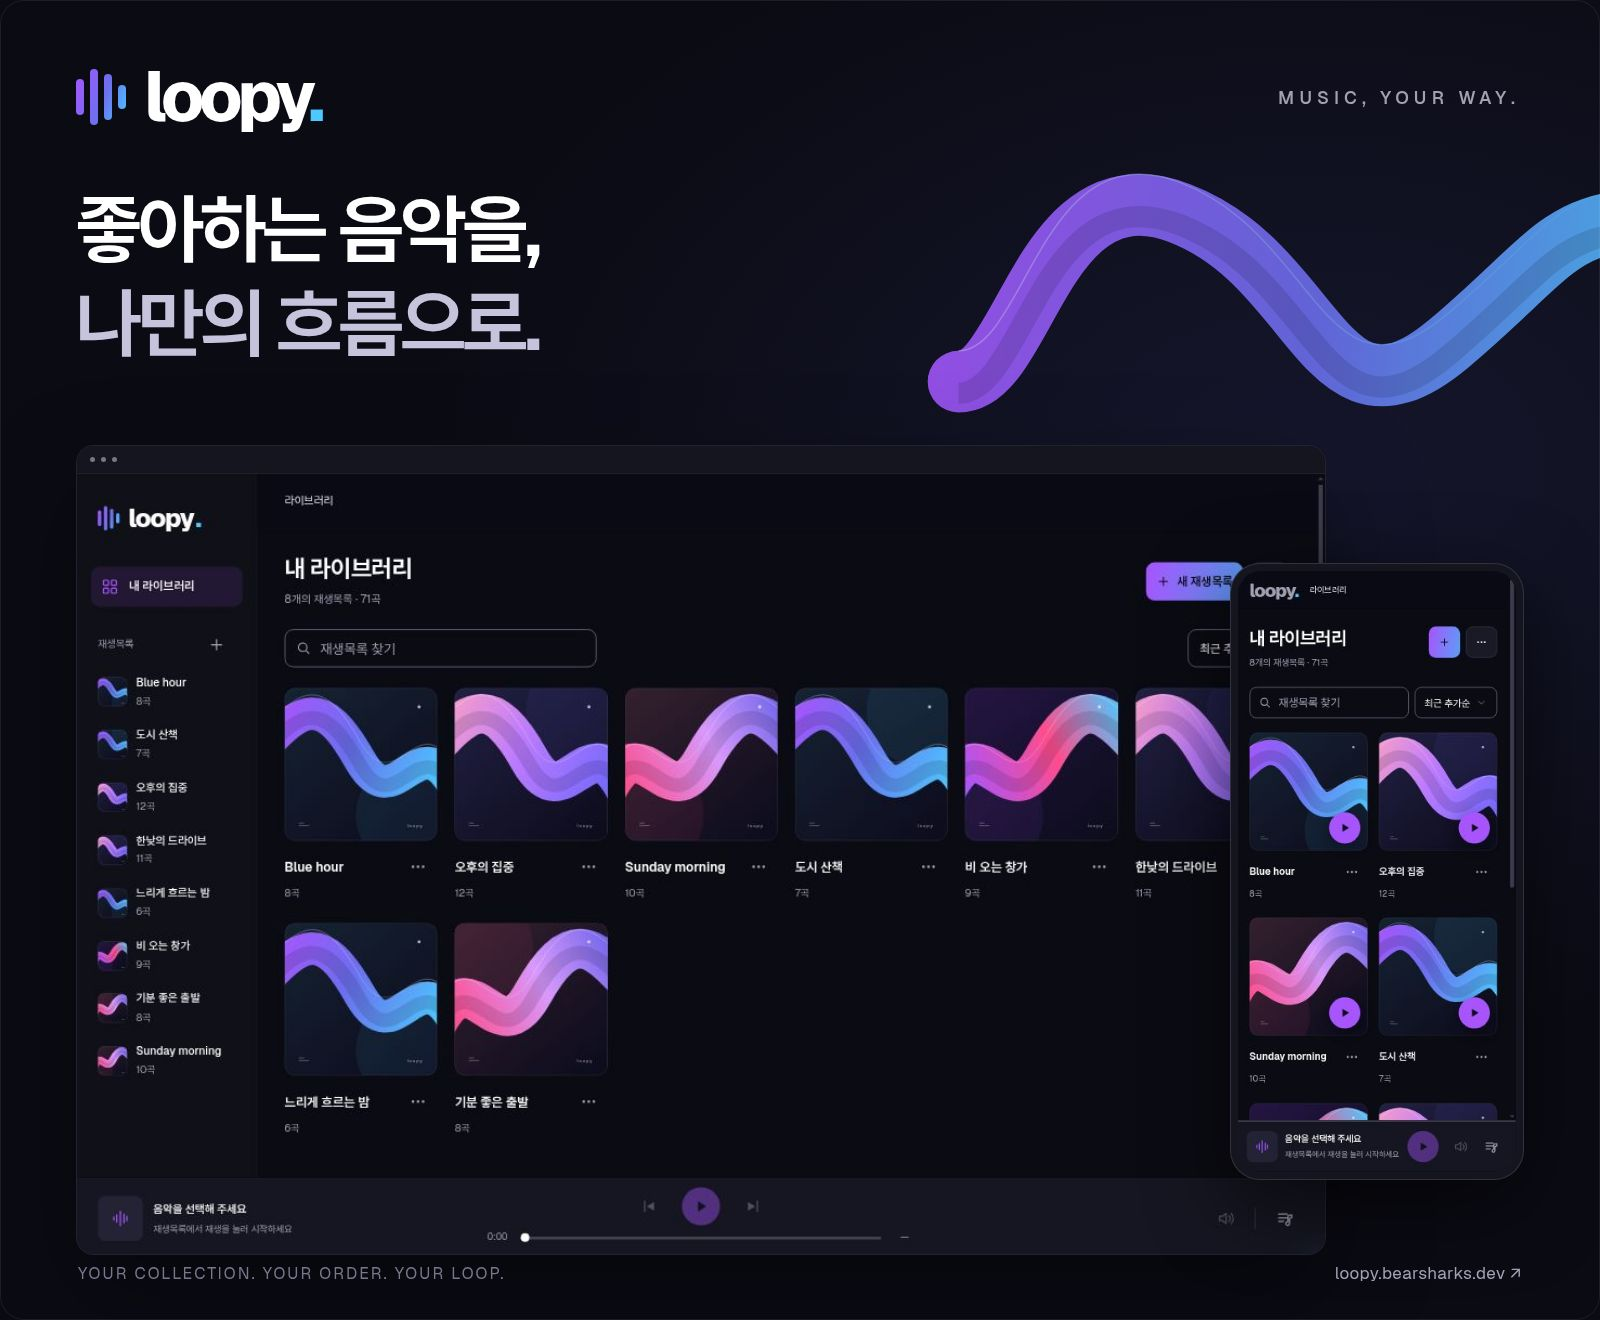
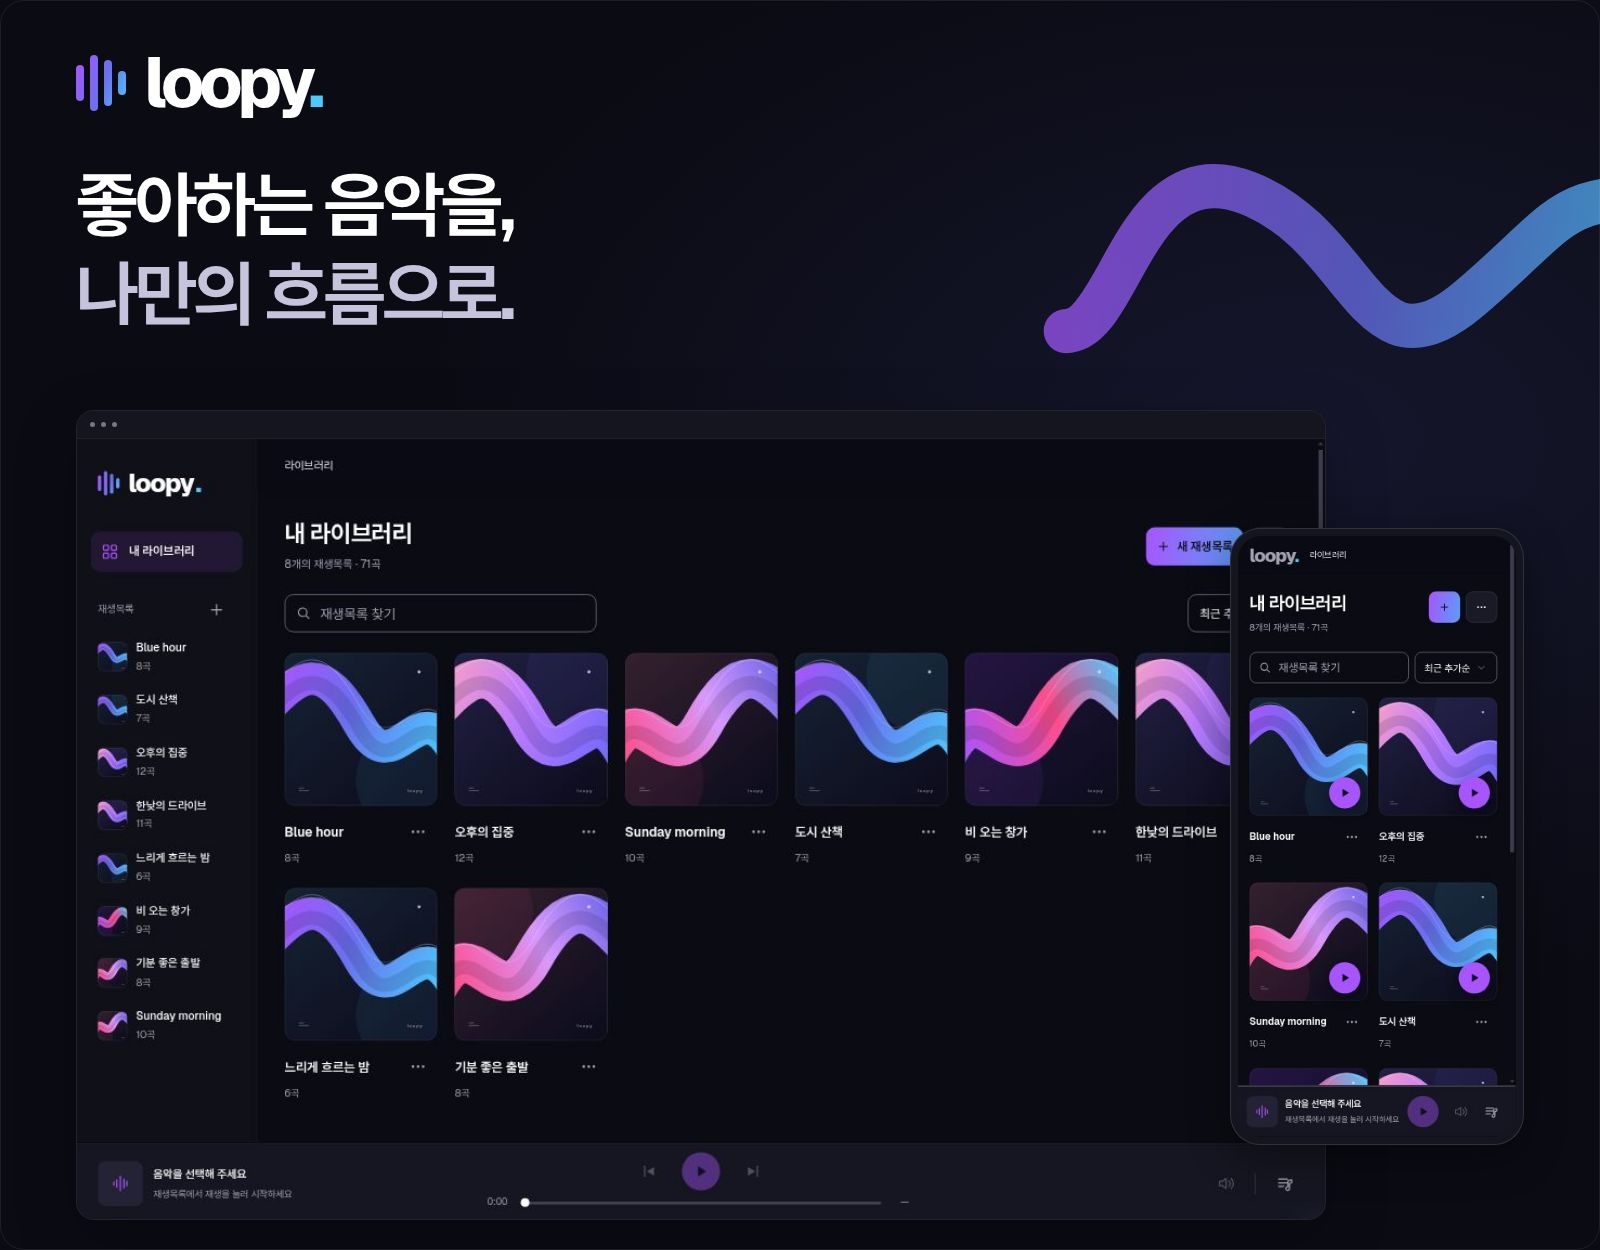
docs: simplify Loopy copy and reduce visual noise

diff --git a/docs/readme/hero.html b/docs/readme/hero.html
@@ -2,13 +2,13 @@
 <html lang="ko"><meta charset="utf-8"><title>loopy — 좋아하는 음악을, 나만의 흐름으로.</title>
 <link rel="stylesheet" href="../../src/shared/ui/fonts.css">
 <style>
-*{box-sizing:border-box;cursor:none}html,body{margin:0;width:1600px;height:1320px;background:#0b0b14;color:#fff;font-family:'Geist Sans','Pretendard Variable',sans-serif}main{width:1600px;height:1320px;overflow:hidden;position:relative;background:radial-gradient(ellipse at 82% 35%,#15162c 0,transparent 48%),#0b0b14}main:after{content:'';position:absolute;inset:0;border:1px solid #ffffff14;border-radius:24px;pointer-events:none}.brand{display:flex;align-items:center;gap:18px;position:absolute;left:76px;top:62px}.word{font-size:70px;font-weight:760;letter-spacing:-5px;line-height:1}.dot{color:#4cc9ff}.bars{display:flex;align-items:center;gap:6px;width:50px;height:56px}.bars i{width:8px;height:36px;border-radius:20px;background:linear-gradient(110deg,#a855ff 0%,#6c70ef 55%,#4cc9ff 100%);background-size:50px 56px;background-position:0 -10px}.bars i:nth-child(2){height:56px;background-position:-14px 0}.bars i:nth-child(3){height:46px;background-position:-28px -5px}.bars i:nth-child(4){height:24px;background-position:-42px -16px}.eyebrow{position:absolute;top:86px;right:80px;font-size:18px;letter-spacing:5px;font-weight:550;color:#a1a1b3}.headline{position:absolute;top:182px;left:76px;margin:0;font-weight:660;font-size:76px;letter-spacing:-3.6px;line-height:1.24;z-index:2}.headline span{color:#c5c4dc}.wave{position:absolute;right:-90px;top:110px;width:770px;height:370px;opacity:.88}.screen{position:absolute;border:1px solid #5c5c734d;overflow:hidden;box-shadow:0 40px 100px #0006;background:#0b0b14}.desktop{left:76px;top:445px;width:1250px;border-radius:18px}.screen img{width:100%;display:block}.bar{height:28px;background:#15151f;border-bottom:1px solid #ffffff0c;display:flex;align-items:center;gap:6px;padding:0 13px}.bar i{display:block;width:5px;height:5px;background:#777687;border-radius:50%}.phone{left:1230px;top:563px;width:294px;padding:7px;border-radius:30px;border-color:#6b6b8055;background:#15151f;box-shadow:0 24px 80px #0009}.phone img{border-radius:23px}.caption{position:absolute;left:78px;bottom:36px;font-size:16px;letter-spacing:2px;color:#77788e}.rightnote{position:absolute;right:79px;bottom:36px;color:#a1a1b3;font-size:17px;letter-spacing:.4px}
+*{box-sizing:border-box;cursor:none}html,body{margin:0;width:1600px;height:1250px;background:#0b0b14;color:#fff;font-family:'Geist Sans','Pretendard Variable',sans-serif}main{width:1600px;height:1250px;overflow:hidden;position:relative;background:radial-gradient(ellipse at 82% 35%,#15162c 0,transparent 48%),#0b0b14}main:after{content:'';position:absolute;inset:0;border:1px solid #ffffff14;border-radius:24px;pointer-events:none}.brand{display:flex;align-items:center;gap:18px;position:absolute;left:76px;top:48px}.word{font-size:70px;font-weight:760;letter-spacing:-5px;line-height:1}.dot{color:#4cc9ff}.bars{display:flex;align-items:center;gap:6px;width:50px;height:56px}.bars i{width:8px;height:36px;border-radius:20px;background:linear-gradient(110deg,#a855ff 0%,#6c70ef 55%,#4cc9ff 100%);background-size:50px 56px;background-position:0 -10px}.bars i:nth-child(2){height:56px;background-position:-14px 0}.bars i:nth-child(3){height:46px;background-position:-28px -5px}.bars i:nth-child(4){height:24px;background-position:-42px -16px}.headline{position:absolute;top:160px;left:76px;margin:0;font-weight:660;font-size:72px;letter-spacing:-3.6px;line-height:1.24;z-index:2}.headline span{color:#c5c4dc}.wave{position:absolute;right:-90px;top:110px;width:680px;height:300px;opacity:.72}.screen{position:absolute;border:1px solid #5c5c734d;overflow:hidden;box-shadow:0 20px 60px #0004;background:#0b0b14}.desktop{left:76px;top:410px;width:1250px;border-radius:18px}.screen img{width:100%;display:block}.bar{height:28px;background:#15151f;border-bottom:1px solid #ffffff0c;display:flex;align-items:center;gap:6px;padding:0 13px}.bar i{display:block;width:5px;height:5px;background:#777687;border-radius:50%}.phone{left:1230px;top:528px;width:294px;padding:7px;border-radius:30px;border-color:#6b6b8055;background:#15151f;box-shadow:0 12px 40px #0006}.phone img{border-radius:23px}
 </style><main aria-label="loopy 브랜드 소개와 실제 앱 예시 화면">
 <div class="brand"><span class="bars"><i></i><i></i><i></i><i></i></span><span class="word">loopy<span class="dot">.</span></span></div>
-<div class="eyebrow">MUSIC, YOUR WAY.</div>
+
 <h1 class="headline">좋아하는 음악을,<br><span>나만의 흐름으로.</span></h1>
-<svg class="wave" viewBox="0 0 800 380" fill="none" aria-hidden="true"><defs><linearGradient id="flow" x1="0" y1="150" x2="800" y2="250" gradientUnits="userSpaceOnUse"><stop stop-color="#a855ff"/><stop offset=".52" stop-color="#6c70ef"/><stop offset="1" stop-color="#4cc9ff"/></linearGradient><linearGradient id="edge" x2="800" gradientUnits="userSpaceOnUse"><stop stop-color="#e4c9ff" stop-opacity=".5"/><stop offset="1" stop-color="#4cc9ff" stop-opacity=".2"/></linearGradient></defs><path d="M40 280C110 280 126 50 270 105S420 350 550 240 660 100 840 115" stroke="url(#flow)" stroke-width="64" stroke-linecap="round"/><path d="M40 248C110 248 126 18 270 73S420 318 550 208 660 68 840 83" stroke="url(#edge)" stroke-width="1.6"/><path d="M40 292C110 292 126 62 270 117S420 362 550 252 660 112 840 127" stroke="#050510" stroke-opacity=".13" stroke-width="22"/></svg>
+<svg class="wave" viewBox="0 0 800 380" fill="none" aria-hidden="true"><defs><linearGradient id="flow" x1="0" y1="150" x2="800" y2="250" gradientUnits="userSpaceOnUse"><stop stop-color="#a855ff"/><stop offset=".52" stop-color="#6c70ef"/><stop offset="1" stop-color="#4cc9ff"/></linearGradient></defs><path d="M40 280C110 280 126 50 270 105S420 350 550 240 660 100 840 115" stroke="url(#flow)" stroke-width="56" stroke-linecap="round"/></svg>
 <div class="screen desktop"><div class="bar"><i></i><i></i><i></i></div><img src="library-desktop.jpg" alt="현재 loopy 라이브러리의 실제 렌더. 예시 재생목록 8개."></div>
 <div class="screen phone"><img src="library-mobile.jpg" alt="동일한 라이브러리의 모바일 화면."></div>
-<div class="caption">YOUR COLLECTION. YOUR ORDER. YOUR LOOP.</div><div class="rightnote">loopy.bearsharks.dev ↗</div>
-</main><script>if(new URLSearchParams(location.search).has('export')){document.body.style.paddingTop='800px';document.body.style.height='2120px';document.documentElement.style.height='2120px';}</script></html>
+
+</main><script>if(new URLSearchParams(location.search).has('export')){document.body.style.paddingTop='800px';document.body.style.height='2050px';document.documentElement.style.height='2050px';}</script></html>

diff --git a/README.md b/README.md
@@ -1,84 +1,46 @@
 <p align="center">
   <a href="https://loopy.bearsharks.dev/">
-    <img src="docs/readme/hero.jpg" width="100%" alt="loopy — 좋아하는 음악을, 나만의 흐름으로. 데스크톱과 모바일의 실제 라이브러리 화면.">
+    <img src="docs/readme/hero.jpg" width="100%" alt="loopy — 좋아하는 음악을, 나만의 흐름으로. 데스크톱과 모바일 라이브러리 화면.">
   </a>
 </p>
 
-<p align="center"><sub>예시 데이터로 구성한 실제 앱 화면 · 실제 음원 재생 시연은 포함하지 않습니다.</sub></p>
+<p align="center"><sub>예시 재생목록으로 구성한 화면</sub></p>
 
 <p align="center">
-  좋아하는 YouTube 음악을 모으고, 내 순서로 정리하고, 오늘의 대기열로 이어 듣는 공간.<br>
-  <strong>loopy는 로그인 없이 시작하는 나만의 음악 라이브러리입니다.</strong>
+  <strong>YouTube 재생목록을 가져와 편집하고 듣는 웹 플레이어.</strong><br>
+  로그인 없이 바로 사용할 수 있습니다.
 </p>
 
-<p align="center">
-  <a href="https://loopy.bearsharks.dev/"><strong>loopy 시작하기 ↗</strong></a>
-  &nbsp; · &nbsp;
-  <a href="#3단계로-첫-재생목록-만들기">사용 방법</a>
-  &nbsp; · &nbsp;
-  <a href="#개발하기">개발 안내</a>
-</p>
+<p align="center"><a href="https://loopy.bearsharks.dev/"><strong>loopy 열기 ↗</strong></a></p>
 
-<br>
+## 재생목록 편집
 
-## 취향은 모으고, 순서는 내 마음대로.
+공개 YouTube 재생목록을 가져오거나 영상 URL로 곡을 추가하세요. 목록 이름과 설명을 바꾸고, 곡을 더하거나 삭제할 수 있습니다. 드래그로 바꾼 순서는 바로 저장됩니다.
 
-한 곡의 URL로 시작해도, 이미 아끼는 재생목록을 가져와도 좋습니다.<br>
-이름과 설명을 붙이고 곡을 더하거나 빼고 옮기며, 나만의 목록으로 다듬어 보세요.
+<img src="docs/readme/workspace.jpg" width="100%" alt="Blue hour 재생목록 상세. 전체 재생, 곡 추가, 순서 변경, 곡별 더보기.">
 
-| 모으기 | 정리하기 | 이어 듣기 |
-| :--- | :--- | :--- |
-| 공개 재생목록과 영상 URL에서 시작하세요. 가능한 곡은 원래 제목도 불러옵니다. | 이름·설명·곡 순서까지. 드래그한 순서는 바로 저장됩니다. | 저장한 목록과 오늘의 대기열을 따로 편집하며 듣습니다. |
+## 원본 목록 관리
 
-<br>
+- **YouTube 최신 목록 가져오기**: 원본의 현재 곡 구성을 불러와 확인한 뒤 교체합니다.
+- **처음 가져온 목록으로 복원**: 최초 기록이 있는 목록을 처음 가져온 곡과 순서로 되돌립니다.
 
-<a href="https://loopy.bearsharks.dev/">
-  <img src="docs/readme/workspace.jpg" width="100%" alt="Blue hour 예시 재생목록의 실제 상세 화면. 전체 재생, 곡 추가, 드래그 순서 변경, 곡별 더보기를 제공합니다.">
-</a>
+## 사용 방법
 
-<sub>화면의 재생목록·곡·아티스트는 소개를 위해 만든 예시입니다. 앱 UI는 실제 렌더이며, 히어로의 파형과 프레임은 별도로 제작한 소개용 그래픽입니다.</sub>
+1. **새 재생목록**을 엽니다.
+2. 이름을 붙여 만든 뒤 **곡 추가**에 영상 URL을 넣습니다. 기존 목록을 가져오려면 **유튜브에서 가져오기**에 공개 재생목록 URL을 입력하세요.
+3. **전체 재생**을 누릅니다. 하단 재생바에서 현재 곡과 대기열을 열 수 있습니다.
 
-<br><br>
+## 저장과 백업
 
-### 크게 펼쳐도, 손안에 담아도.
-
-데스크톱에서는 라이브러리와 오른쪽 플레이어를 함께 보고, 모바일에서는 필요한 화면에 집중합니다. 하단 재생바에서 현재 곡과 대기열로 돌아갈 수 있습니다.
-
-### 처음의 목록도, 지금의 취향도.
-
-YouTube에서 가져온 목록은 로컬에서 자유롭게 편집할 수 있습니다. 필요할 때만 **YouTube 최신 목록 가져오기**로 갱신하거나, 최초 기록이 있는 목록을 **처음 가져온 목록으로 복원**할 수 있습니다. 자동으로 편집 내용을 덮어쓰지 않습니다.
-
-### 내 브라우저에 저장하고, 파일로 챙겨 두세요.
-
-목록과 곡 정보는 이 브라우저의 IndexedDB에 저장됩니다. 라이브러리 더보기에서 **목록 내보내기 / 백업 가져오기**로 보관하거나 다른 브라우저로 옮길 수 있습니다.
-
-<br>
-
-## 3단계로 첫 재생목록 만들기
-
-1. **[loopy 열기](https://loopy.bearsharks.dev/)** → **새 재생목록**을 선택합니다.
-2. 이름을 붙여 빈 목록을 만들거나, **유튜브에서 가져오기**에 공개 재생목록 URL을 붙여 넣습니다. URL 입력을 마치면 목록을 불러옵니다.
-3. **곡 추가**로 원하는 영상을 더하고 **전체 재생**으로 듣기를 시작하세요.
-
-<details>
-<summary><strong>저장과 재생에 대해 알아두기</strong></summary>
-
-- 계정이나 기기 간 자동 동기화는 없습니다. 사이트 데이터를 지우거나 브라우저·접속 주소를 바꾸면 기존 목록에 접근할 수 없으므로, 중요한 목록은 먼저 백업하세요.
-- 음악 파일을 저장하거나 다운로드하지 않습니다. 재생은 YouTube 공식 임베드를 사용하며 인터넷 연결이 필요합니다.
-- 비공개·삭제된 영상, 임베드 제한, 브라우저의 자동 재생 정책 등에 따라 가져오기나 재생이 제한될 수 있습니다.
-- 제목을 가져오지 못한 곡은 임시 제목으로 저장됩니다. 목록의 **원래 곡 제목 가져오기**로 다시 시도할 수 있습니다.
-
-</details>
-
-<br>
+목록은 현재 브라우저에 저장되며 다른 기기와 자동 동기화되지 않습니다. 라이브러리 더보기의 **목록 내보내기 / 백업 가져오기**로 보관하거나 옮길 수 있습니다. 사이트 데이터를 지우거나 브라우저·접속 주소를 바꾸기 전에 백업하세요.
 
 ## 개발하기
 
-현재 서비스의 소스는 **[`design/shadcn-ui`](https://github.com/Bearsharks/simple-music-player/tree/design/shadcn-ui)** 브랜치에 있습니다. 기본 브랜치의 이전 앱 코드와 구분해 주세요.
+현재 제품 코드는 **[`design/shadcn-ui`](https://github.com/Bearsharks/simple-music-player/tree/design/shadcn-ui)** 브랜치에 있습니다.
 
-**React 19 · TypeScript · Vite 8 · Jotai · IndexedDB · shadcn/ui + Radix**
+React 19 · TypeScript · Vite 8 · Jotai · IndexedDB · shadcn/ui + Radix
 
-Node.js 24에서 시작합니다. 기본 사용에는 별도 백엔드, 로그인, API 키 설정이 필요하지 않습니다.
+Node.js 24가 필요합니다. 별도 백엔드나 API 키 설정 없이 실행할 수 있습니다.
 
 ```bash
 git clone --branch design/shadcn-ui https://github.com/Bearsharks/simple-music-player.git
@@ -91,15 +53,9 @@ npm run dev
 개발 주소: `http://localhost:5173/simple-music-player/`
 
 ```bash
-npm run check             # 기능 경계 · 타입 · 단위 테스트 · 프로덕션 빌드
-npm run storybook         # 공통 UI와 상태별 컴포넌트
-VITE_BASE_PATH=/ npm run build  # 루트 도메인용 빌드
+npm run check                  # 경계 · 타입 · 테스트 · 빌드
+npm run storybook              # UI 컴포넌트
+VITE_BASE_PATH=/ npm run build # 루트 도메인용 빌드
 ```
 
 [아키텍처](https://github.com/Bearsharks/simple-music-player/blob/design/shadcn-ui/docs/ARCHITECTURE.md) · [기능별 작업 지도](https://github.com/Bearsharks/simple-music-player/blob/design/shadcn-ui/docs/CHANGE-GUIDE.md) · [디자인 시스템](https://github.com/Bearsharks/simple-music-player/blob/design/shadcn-ui/DESIGN_SYSTEM.md)
-
-<sub>이 저장소는 Simple Music Player에서 출발한 loopy의 소스입니다. 브라우저 모의 테스트의 성공이 모든 YouTube 영상의 실제 재생을 보장하지는 않습니다.</sub>
-
-<br>
-
-<p align="center"><a href="https://loopy.bearsharks.dev/"><strong>오늘의 첫 곡을 만나러 가기 ↗</strong></a></p>

diff --git a/docs/readme/ASSETS.md b/docs/readme/ASSETS.md
@@ -6,7 +6,7 @@
 
 소개 이미지는 현재 앱의 실제 렌더를 바탕으로 한다. 제품 UI를 다시 그리거나 존재하지 않는 기능을 합성하지 않았다.
 
-- `hero.jpg` — 1600×1320. 새로 조판한 브랜드 히어로. 현재 로고 배색, 직접 작성한 SVG 파형, 실제 앱 캡처 2개를 HTML/CSS로 배치했다. 데스크톱 프레임과 모바일 프레임은 소개용 장식이다.
+- `hero.jpg` — 1600×1250. 새로 조판한 브랜드 히어로. 현재 로고 배색, 직접 작성한 SVG 파형, 실제 앱 캡처 2개를 HTML/CSS로 배치했다. 데스크톱 프레임과 모바일 프레임은 소개용 장식이다.
 - `library-desktop.jpg` — 1152×720. 실제 앱 viewport 1440×900을 0.8배로 렌더한 라이브러리.
 - `library-mobile.jpg` — 332×718. 실제 앱 viewport 390×844를 0.85배로 렌더한 라이브러리.
 - `workspace.jpg` — 1152×720. 실제 앱 viewport 1280×800을 0.9배로 렌더한 재생목록 상세.
@@ -22,7 +22,7 @@
 - 히어로는 브랜드의 파형을 여백 안에 크게 배치하고, 앱 화면이 실제 기능 설명의 중심이 되도록 했다.
 - 글꼴은 제품의 self-hosted Geist Sans + Pretendard Variable이다. 기존 폰트 자산과 라이선스를 그대로 사용하며 자산을 중복 복사하지 않는다.
 - 그림에만 설명을 숨기지 않는다. 핵심 기능, 저장 정책과 시작 방법은 README의 선택 가능한 본문으로 제공한다. 이미지에는 alt를 붙였다.
-- 이미지 4개 합계 약 274KB. README가 직접 읽는 hero와 workspace는 합계 약 186KB다.
+- 이미지 4개 합계 약 262KB. README가 직접 읽는 hero와 workspace는 합계 약 173KB다.
 
 ## 재현
 
@@ -36,7 +36,7 @@
    - `?view=desktop`: 상단 왼쪽 1152×720 → `library-desktop.jpg`
    - `?view=mobile`: 상단 왼쪽 332×718 → `library-mobile.jpg`
    - `?view=detail`: 상단 왼쪽 1152×720 → `workspace.jpg`
-6. `hero.html`에서 실제 사진을 배치한 결과를 확인한다. `hero.html?export=1`은 800px 아래에 아트보드를 두는 캡처용 경로다. 전체 페이지 캡처에서 `(0,800,1600,1320)` 영역을 저장한다. 캡처 포인터가 아트보드에 섞이지 않게 한다.
+6. `hero.html`에서 실제 사진을 배치한 결과를 확인한다. `hero.html?export=1`은 800px 아래에 아트보드를 두는 캡처용 경로다. 전체 페이지 캡처에서 `(0,800,1600,1250)` 영역을 저장한다. 캡처 포인터가 아트보드에 섞이지 않게 한다.
 
 이번 작업에서는 클라우드 브라우저의 CUA로 탐색·캡처하고, 저장한 이미지 4개를 직접 확인했다. 이미지 확장자는 실제 반환 형식인 JPEG에 맞췄다. `serve.py`와 `studio.html`은 제작·재현용이며 앱 빌드에 포함하지 않는다.
 
